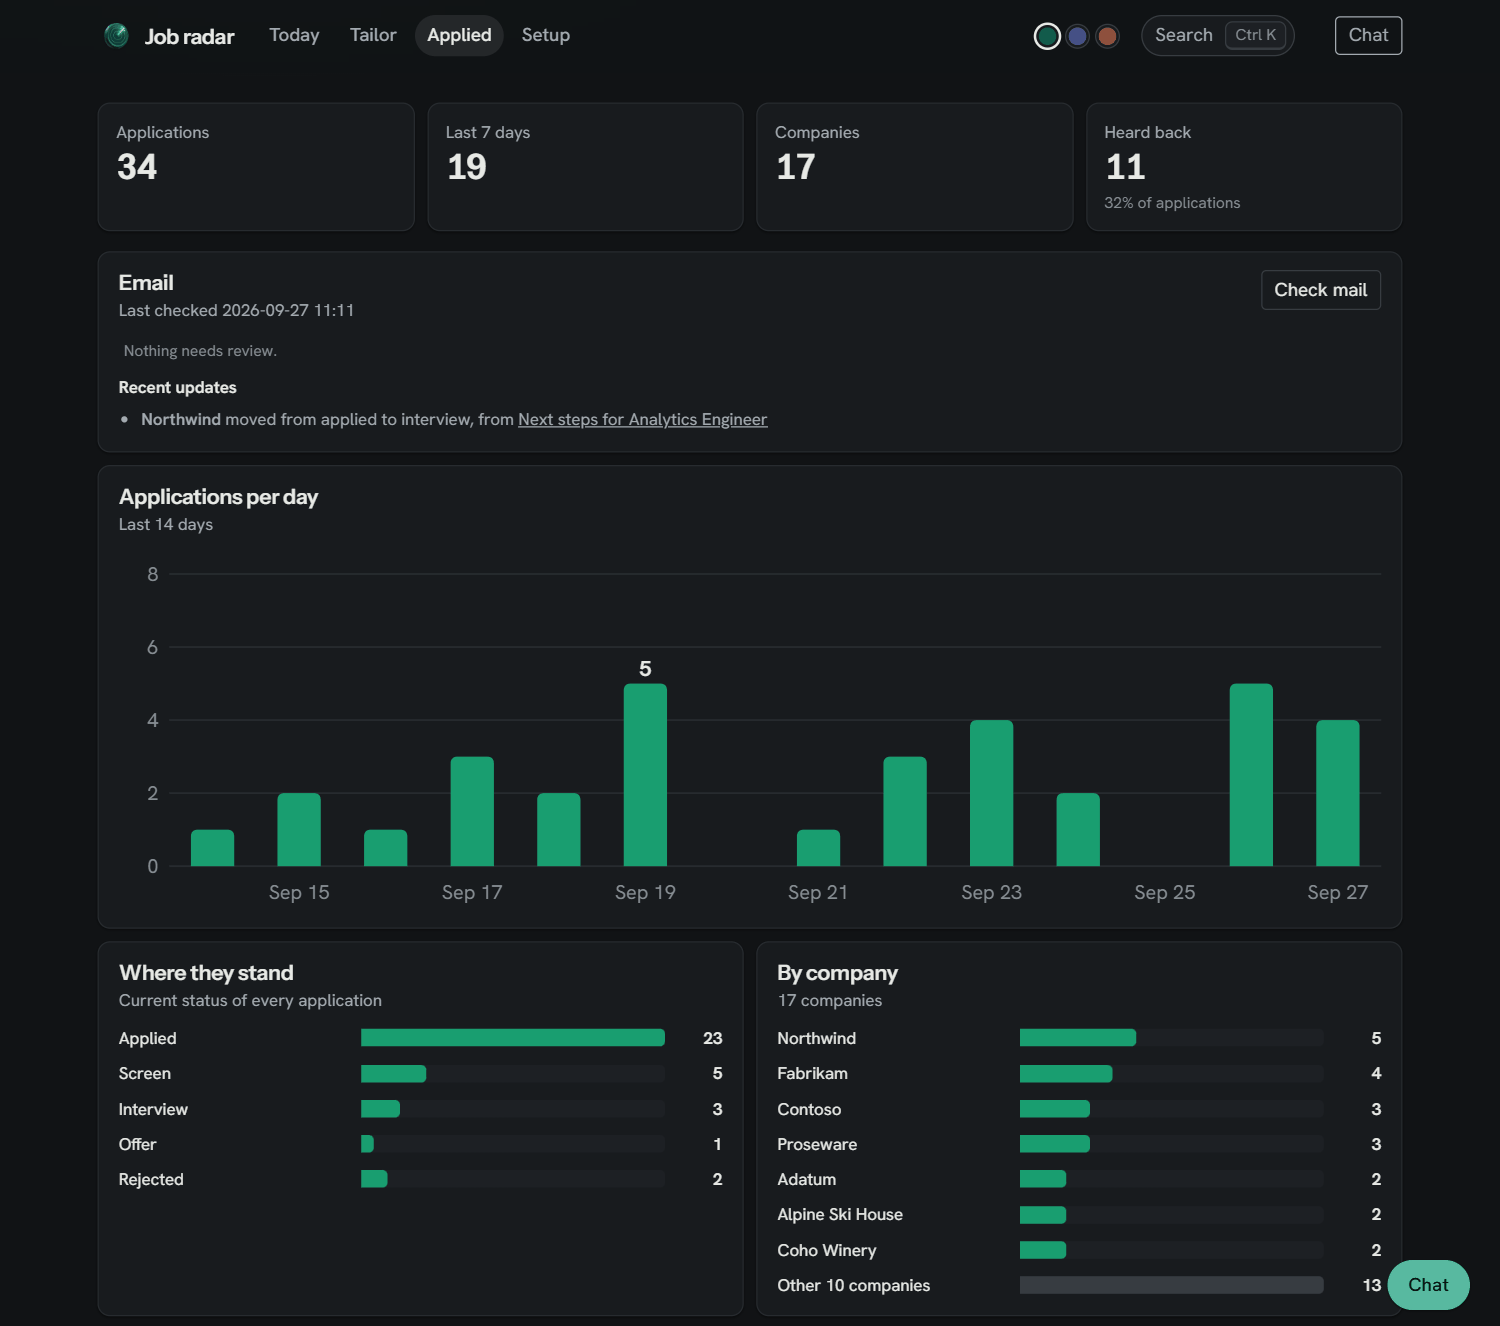
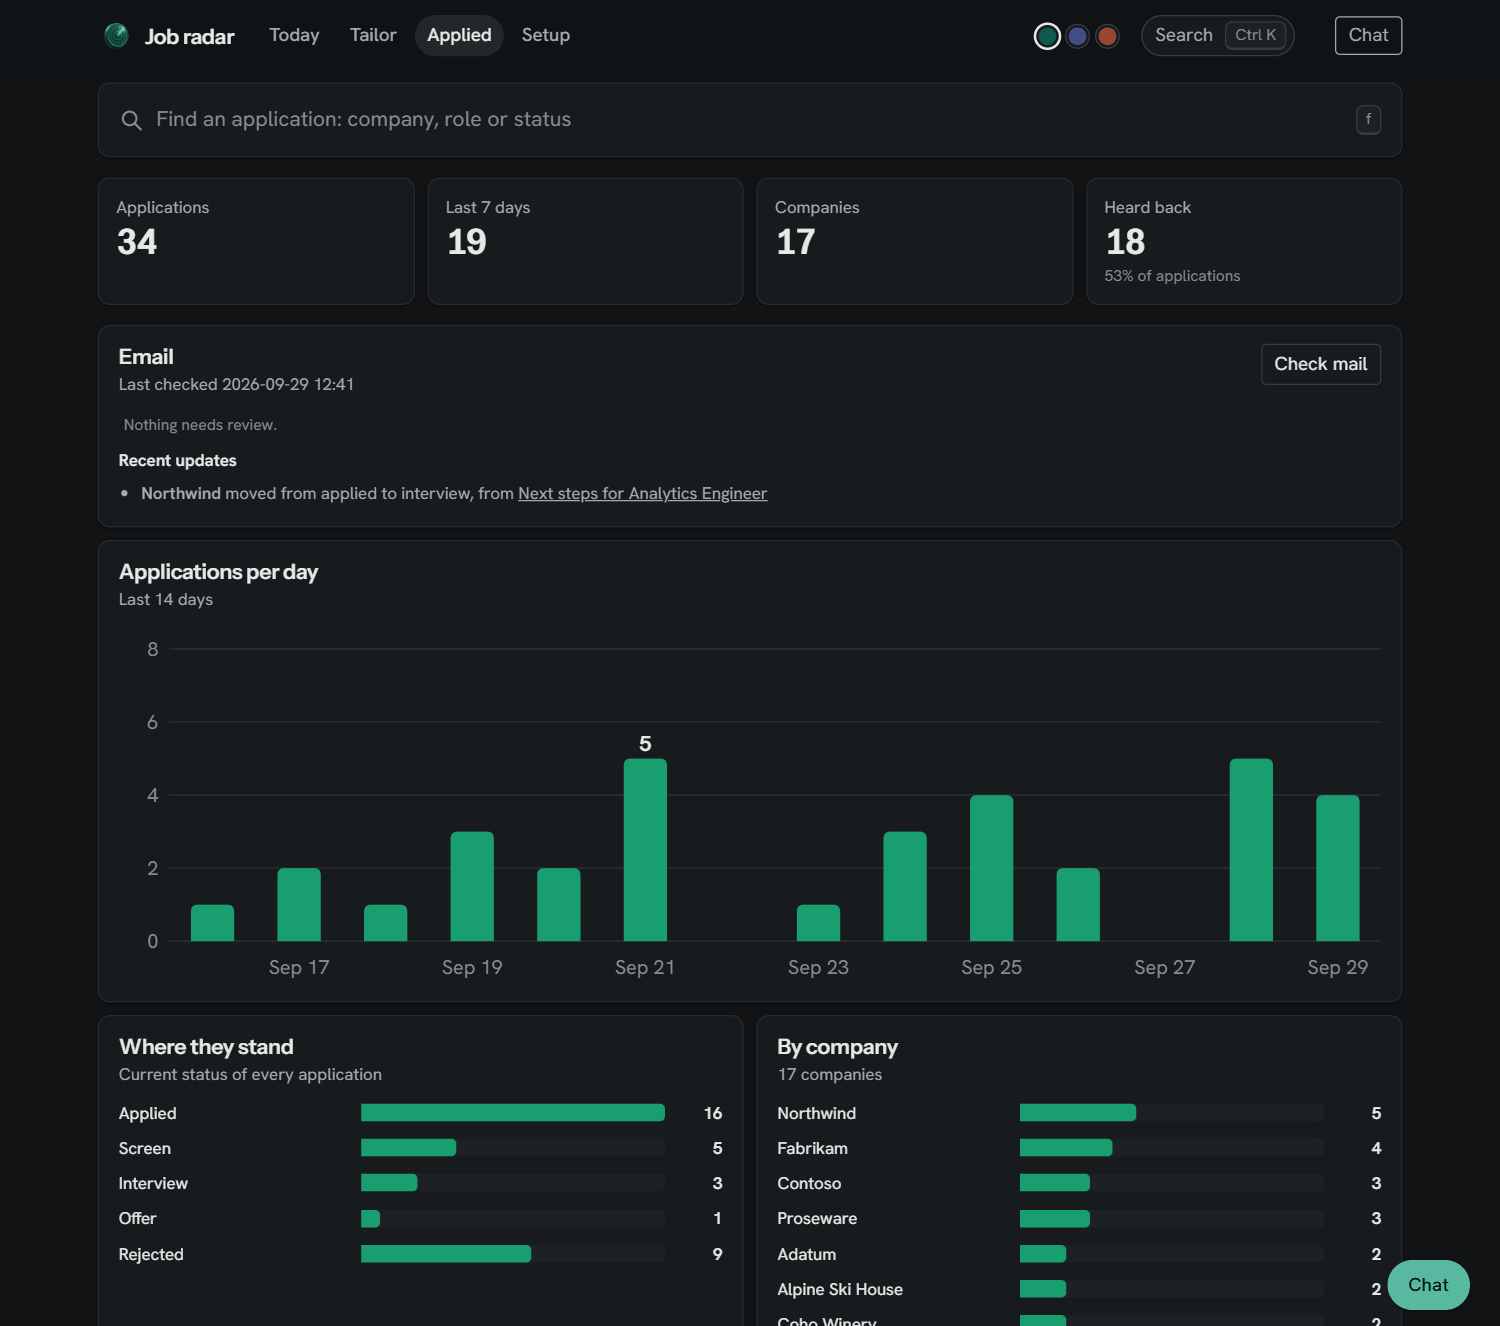
docs: Applied search and the plain-words rejections card
The README, changelog and status now describe both, and the Applied screenshots show the search bar.

diff --git a/README.md b/README.md
@@ -64,6 +64,9 @@ The hour of tab-hopping becomes one page you read with your coffee.
 - **Reads replies for you.** With a Gmail app password it checks your inbox, read-only, and moves an application
   to screen, interview, rejected or offer when an email carries its requisition id and says so plainly. Replies
   without one wait in a needs-review list for you to settle; plain confirmations are skipped.
+- **Shows what your rejections have in common.** Group your applications by role, level, resume, fit score, years
+  asked, sponsorship or company, see which groups are rejected more often than your average, in plain words, and
+  open a group to see the applications behind it.
 - **Watches what you applied to.** It re-checks each posting behind an open application and tells you when one
   closes, which is often the only answer you get.
 - **Stays on your machine.** Resumes, applications and chat history are local files, ignored by git.
@@ -159,6 +162,7 @@ With a Gmail app password in `.env` it reads hiring emails, read-only, and moves
 | Wider window when the list is thin | `python run.py --days 3 --all-tiers` |
 | Start a run from the app | **Run the radar**, top right of Today |
 | Mark a posting applied | **Mark applied** on its card, then move it between stages on the Applied board |
+| Find an application | The search at the top of Applied (press **f**): company, role or status |
 | Tailor a resume | Ask the chat ("tailor the second one"), or paste a job link in Tailor |
 | Tailor from the terminal | `python -m tailoring.apply <company> <req_id> --cover` |
 | Judge any posting | `python -m radar.evaluate <link>` (Workday, Greenhouse, Lever or Ashby) |
@@ -169,7 +173,7 @@ With a Gmail app password in `.env` it reads hiring emails, read-only, and moves
 
 <picture>
   <source media="(prefers-color-scheme: dark)" srcset="docs/img/applied-dark.png">
-  <img src="docs/img/applied.png" alt="The Applied view: headline tiles for applications, last 7 days, companies and replies, the Email card with an application a hiring email moved to interview, a column chart of applications per day, and bar charts of where applications stand and which companies were applied to most.">
+  <img src="docs/img/applied.png" alt="The Applied view: a search for applications, headline tiles for applications, last 7 days, companies and replies, the Email card with an application a hiring email moved to interview, a column chart of applications per day, and bar charts of where applications stand and which companies were applied to most.">
 </picture>
 
 <sub>The Applied view: how many you have sent, how fast, where they stand and where they went. A board below

diff --git a/docs/CHANGELOG.md b/docs/CHANGELOG.md
@@ -2,6 +2,15 @@
 
 ## Unreleased
 
+**Find an application.** A search at the top of Applied lists the applications whose company, role or status
+matches what you type, word by word, with the matches highlighted and the status still changeable. Press `f` to
+jump to it.
+
+**Rejections in plain words.** The rejections card now opens with how every application turned out (good replies,
+rejections, still waiting), names the clearest pattern in one sentence, and groups applications by role, level,
+resume, fit score, years asked, sponsorship or company. Each group says whether it is rejected more or less often
+than your average, or that it is too small to tell, and clicking it lists its applications.
+
 **An intro video, and a README for going public.** A 47-second video with sound, `docs/media/job-radar-intro.mp4`,
 opens the README through a silent preview. The README now starts with why the radar helps on a student visa and
 what a morning with it looks like, and adds what leaves your machine and a short FAQ.
